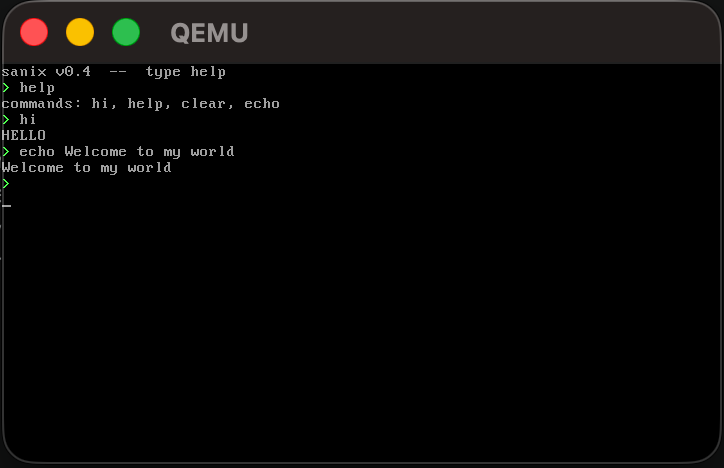
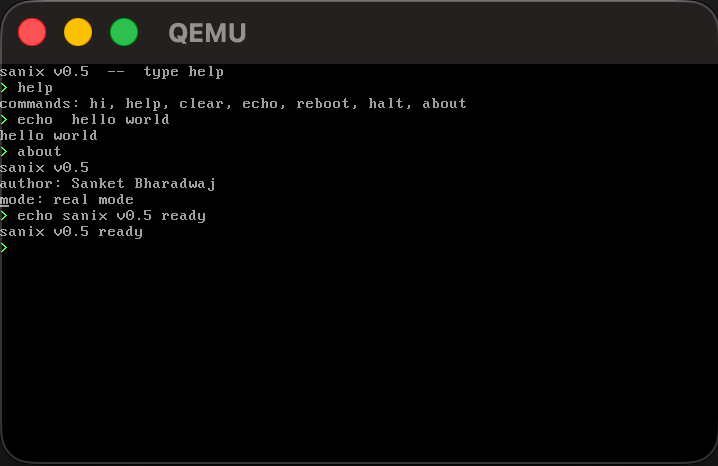
v0.5: reboot, halt, echo args, trim input, about command

diff --git a/README.md b/README.md
@@ -40,7 +40,7 @@ chmod +x run.sh
 QEMU opens a window. You see:
 
 ```
-sanix v0.4  --  type help
+sanix v0.5  --  type help
 > 
 ```
 
@@ -53,12 +53,15 @@ Type commands. The shell responds.
 | command | output |
 |---|---|
 | `hi` | `HELLO` |
-| `help` | `commands: hi, help, clear, echo` |
+| `help` | lists all commands |
 | `clear` | clears the screen |
 | `echo <text>` | prints `<text>`; bare `echo` prints a blank line |
+| `about` | name, author, mode |
+| `reboot` | warm reboot via BIOS INT 19h |
+| `halt` | disables interrupts and halts the CPU |
 | anything else | `?` |
 
-Backspace works. Scroll works. Screen wraps cleanly at row 24.
+Leading and trailing spaces are stripped before matching — `  hi  ` works.
 
 ---
 
@@ -95,11 +98,10 @@ print_prompt → read_line → handle_command → repeat
 - Backspace decrements the buffer pointer and blanks the VGA cell
 
 **Command dispatch:**
-- `strcmp` compares input buffer against exact-match commands (`hi`, `help`, `clear`)
-- `strcmp_prefix` handles prefix-style commands like `echo` (matches `echo`, `echo hello`, etc.)
-- `echo` skips past the command word and any trailing spaces, then prints the remainder via `println`
-- Matched command calls `println` with the response string
-- `clear` calls `clear_screen` which `rep stosw`s the entire VGA buffer
+- `strcmp` handles exact-match commands: `hi`, `help`, `clear`, `reboot`, `halt`, `about`
+- `strcmp_prefix` handles argument-bearing commands: `echo`
+- Leading and trailing spaces stripped from input before any comparison
+- Dispatch order: exact matches → prefix matches → fallback `?`
 
 **VGA output:**
 - All output goes through `vga_putchar_attr`
@@ -198,6 +200,7 @@ v0.1  two-stage boot, static VGA text output
 v0.2  interactive shell — keyboard input, command dispatch, backspace
 v0.3  screen scroll, full terminal behaviour, all bugs fixed
 v0.4  echo command, strcmp_prefix helper, version bump
+v0.5  leading/trailing trim, reboot, halt, about commands
 ```
 
 ---
@@ -206,7 +209,6 @@ v0.4  echo command, strcmp_prefix helper, version bump
 
 - [ ] command history (up arrow)
 - [ ] custom hardware cursor (INT 10h or direct CRTC port)
-- [ ] more commands — `reboot`, `halt`
 - [ ] protected mode switch — GDT setup, 32-bit jump
 - [ ] memory map — INT 15h `E820`
 - [ ] filesystem — read files from floppy sectors

diff --git a/CHANGELOG.md b/CHANGELOG.md
@@ -4,6 +4,32 @@ All notable changes to this project will be documented here.
 
 ---
 
+## [v0.5] - 2026-05-04
+
+### Added
+- **Leading-space trim** — `trim_input` now shifts buffer content left to remove
+  leading spaces before any command matching (`   hi` → `hi`)
+- `reboot` command — triggers a BIOS warm reboot via `INT 0x19`
+- `halt` command — disables interrupts (`cli`) and loops on `hlt`; CPU stops cleanly
+- `about` command — prints three lines: `sanix v0.5`, `author: Sanket Bharadwaj`, `mode: real mode`
+- New command strings in data section: `cmd_reboot`, `cmd_halt`, `cmd_about`
+- New message strings: `msg_about_name`, `msg_about_author`, `msg_about_mode`
+
+### Changed
+- `trim_input` rewritten — Phase 1 strips leading spaces (in-buffer shift), Phase 2 strips trailing spaces
+- `handle_command` dispatch order formalised: exact → prefix → fallback
+- `msg_help` updated to list all seven commands
+- Banner bumped to `sanix v0.5  --  type help`
+- Version header in `stage2.asm` and `boot.asm` bumped to `v0.5`
+
+### Notes
+- `reboot` and `halt` are both exact-match commands (no args) — handled by `strcmp`
+- `trim_input` uses only `DS:offset` reads/writes — ES and DF untouched
+- `halt` is intentionally non-returning; the `jmp .done` after `hlt` is unreachable dead code for NASM
+- All existing commands (`hi`, `help`, `clear`, `echo`) unchanged and verified working
+
+---
+
 ## [v0.4] - 2026-04-29
 
 ### Added
